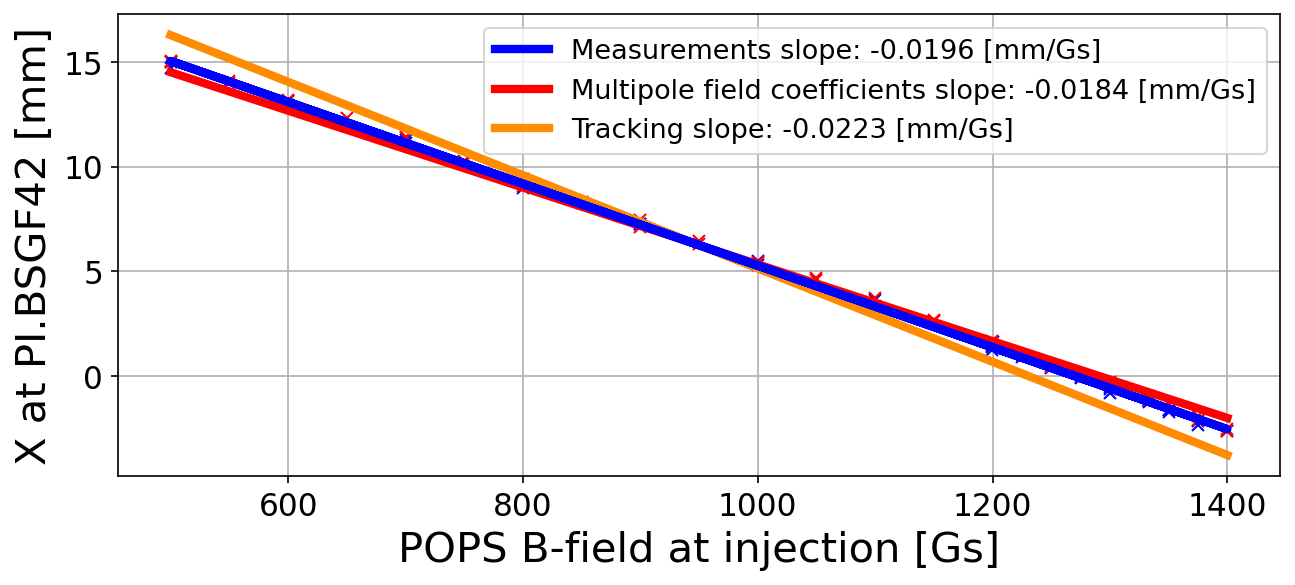
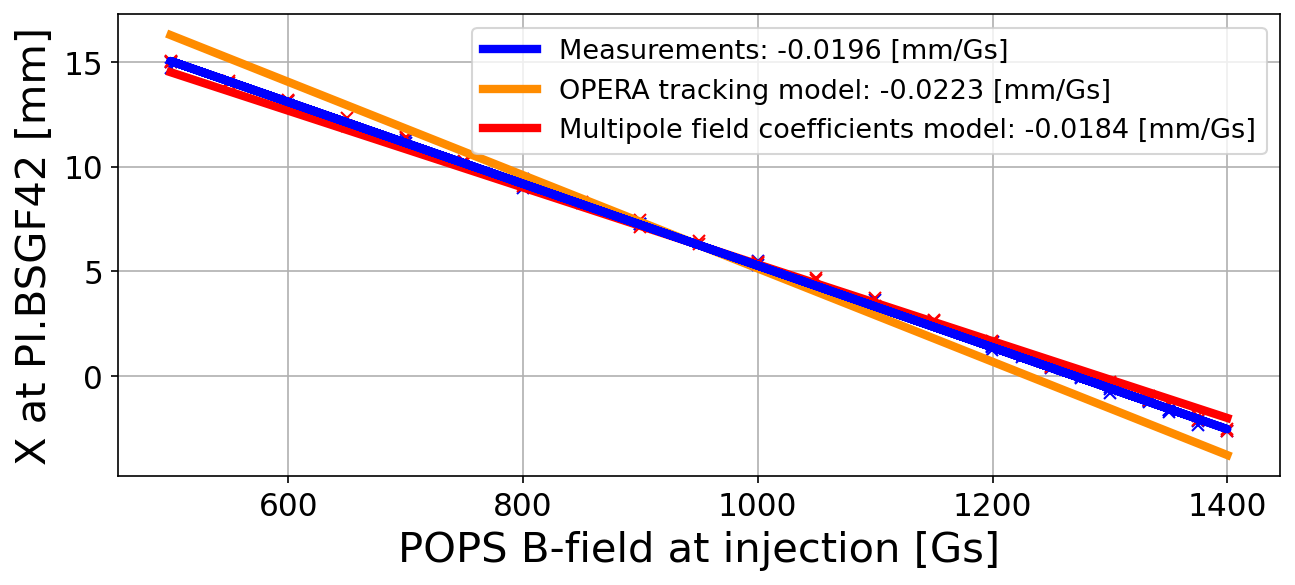
Corrected figures formating

Changed region(s): [[0.3707, 0.0615, 0.9884, 0.2462]]

diff --git a/JACoW_LaTeX_A4.tex b/JACoW_LaTeX_A4.tex
@@ -69,28 +69,28 @@ As the beam is injected and extracted from the CERN Proton Synchrotron (PS), it 
 
 
 \section{Introduction}
-As protons and ions beams are injected and extracted in the PS ring, they travel through non-linear stray fields produced by the PS MUs. In these regions, an accurate optic model is imperative for the preservation of transverse emittance. Scaling of the model is required as the injection takes place at 1 GeV/c, the slow extraction to the East Area at 24 GeV/c, and the extraction to the Super Proton Synchrotron (SPS) at 26 GeV/c. Limitation of earlier models based on measurements were that they were produced at a fixed energy. Versatility is also considered as the beam travels through stray fields with different angles, different magnet types, and non-constant number of MUs. Previous models would only consider a single track to produce the relevant optical parameters from the measurements. The model would be useful to describe slow extracted beams for Charm High-energy Ions for Micro Electronics Reliability Assurance (CHIMERA), which aims to use very high-energy (VHE) heavy-ion beams to study the effect of single event effects (SEE) on electric, electronic, and electromechanical (EEE) devices, both for research and industry users. A new technique for modeling the stray field that relies solely on simulations is presented, considering the proton injection at 2 GeV/c and the extraction a 24 GeV/c to the East Area.
+As protons and ions beams are injected and extracted in the PS ring, they travel through non-linear stray fields produced by the PS MUs. In these regions, an accurate optic model is imperative for the preservation of transverse emittance. Scaling of the model with energy is required as the injection takes place at 1 GeV/c, and extraction to the East Area and to the Super Proton Sychrotron (SPS) are at 24 GeV/c and 26 GeV/c respectively. Limitation of earlier models based on measurements were that they were produced at a single energy. Versatility is also considered as the beam travels through stray fields with different angles, different magnet types, and a non-constant number of MUs. Previous models would only consider a single track to produce the relevant optical parameters from the measurements. The model would be useful to describe slow extracted beams for Charm High-energy Ions for Micro Electronics Reliability Assurance (CHIMERA), which aims to use very high-energy (VHE) heavy-ion beams to study the effect of single event effects (SEE) on electric, electronic, and electromechanical (EEE) devices, both for research and industry users. A new technique for modeling the stray field that relies solely on simulations is presented, considering the proton injection at 2 GeV/c and the extraction a 24 GeV/c to the East Area.
 
 \section{Field maps}
-\subsection{PS main units}
+\subsection{PS Main Units}
 The CERN PS uses the strong focusing mechanism for beam convergence. The PS is composed of 100 combined function main unit magnets that produce dipolar and quadrupolar fields simultaneously. Each magnet is divided into two half-units with gradients of opposite polarity. Half-units are composed of five blocks of either closed blocks that are focusing (F), see Fig.\ref{fig:focusing} or open blocks that are defocusing (D), see Fig.\ref{fig:defocusing}.
 
 \begin{figure}[!htb]
   \centering
   \begin{minipage}[b]{0.45\columnwidth}
     \includegraphics*[width=\textwidth]{focusing}
-    \caption{Closed Focusing yoke}
+    \caption{Closed Focusing yoke.}
     \label{fig:focusing}
   \end{minipage}
   \hfill
   \begin{minipage}[b]{0.45\columnwidth}
     \includegraphics*[width=\textwidth]{defocusing}
-    \caption{Open Defocusing yoke}
+    \caption{Open Defocusing yoke.}
     \label{fig:defocusing}
   \end{minipage}
 \end{figure}
 
-There are four types of magnets: R, S, T, and U, depending on the arrangement of the half-units (FD or DF) and whether the main coil is on the inside or outside of the ring \cite{steerenberg_fifty_2011}. Additional coils called pole face winding (PFW) and figure-of-eight loop (F8L) are wrapped around the yokes to correct for chromaticity and tune. Although the combined function magnet works well when the beam is in the central orbit, every injection/extraction of the beam travels through the MUs, which causes large stray-field effects. The PS wasn't built with straight sections long enough for injection/extraction at high energy and the deflection angles of the septas are small which forces the ejected beam to travel close to the central orbit and through the stray fields of the MUs. \cite{risselada_beam_nodate}
+There are four types of magnets: R, S, T, and U, depending on the arrangement of the half-units (FD or DF) and whether the main coil is on the inside or outside of the ring \cite{steerenberg_fifty_2011}. Additional coils called pole face winding (PFW) and figure-of-eight loop (F8L) are wrapped around the yokes to correct for chromaticity and tune. Although the combined function magnet works well when the beam is in the central orbit, every injection/extraction of the beam travels through the MUs, which causes large stray-field effects. The PS wasn't built with straight sections long enough for injection/extraction at high energy and the deflection angles of the septas are small which forces the ejected beam to travel close to the central orbit and through the stray fields of the MUs \cite{risselada_beam_nodate}.
 
 
 \subsection{The OPERA model}
@@ -114,7 +114,7 @@ An example of a field map (vector field of Bx,By,Bz in x,y,z space) produced by 
    \centering
    %trim={<left> <lower> <right> <upper>}
    \includegraphics*[width=1.0\columnwidth, trim={0 2.9cm 0 4.3cm},clip]{dipole_field.png}
-   \caption{Dipole field map of a U-type magnet centered in the vertical plane at 24 GeV}
+   \caption{Dipole field map of a U-type magnet centered in the vertical plane at 24 GeV.}
    \label{fig:dipole_field}
 \end{figure}
 
@@ -124,12 +124,12 @@ $$ \boldsymbol{G}(x_{j},z) = \frac{\Delta\boldsymbol{B}}{\Delta x} = \frac{\bold
 where,
 $$ x_{j} = \frac{x_{i+1} + x_{i}}{{2}} $$
  
-The gradient is constant and alternating in the central orbit region but reverses signs at the periphery and increases in magnitude in a nonlinear way; see Fig.\ref{fig:gradient_field}. Similar results have been previously made using magnetic measurements of the MU fields \cite{manglunki_beam_1997}. Earlier models of the stray field for extraction 16 at 26 GeV/c proved to be adequate in the description of operational beams. However, the OPERA model adds the possibility to quickly generate field maps at different energies, different PFW, different F8L settings and for different magnet types. Field maps produced with the OPERA model also have virtually infinite lengths, whereas physical measurements are limited by the geometry of the magnet and the measuring instrument (-0.07 m $\leq$ x $\leq$ 0.31 and -2.55 m $\leq$ z $\leq$ 2.73), \cite{manglunki_beam_1997}.
+The gradient is constant and alternating in the central orbit region, but reverses signs at the periphery and increases in magnitude in a nonlinear way; see Fig.\ref{fig:gradient_field}. Similar results have previously been made using magnetic measurements of the MU fields \cite{manglunki_beam_1997}. Earlier models of the stray field for extraction 16 at 26 GeV/c proved to be adequate in the description of operational beams. However, the OPERA model adds the possibility to quickly generate field maps at different energies, different PFW, different F8L settings and for different magnet types. Field maps produced with the OPERA model also have virtually infinite lengths, whereas physical measurements are limited by the geometry of the magnet and the measuring instrument (-0.07 $\leq$ x $\leq$ 0.31 m and -2.55 $\leq$ z $\leq$ 2.73 m), \cite{manglunki_beam_1997}.
 
 \begin{figure}[!htb]
    \centering
    \includegraphics*[width=1.0\columnwidth, trim={0 0 0 0cm},clip]{Main_field_B_G.png}
-   \caption{PS main unit U-type | Main field B, G | y=0, Gradient field of a U-type magnet centered in the vertical plane in both half-units at 24 GeV}
+   \caption{Dipole and gradient component of a  PS U-type MU centered in the vertical plane in both half-units at 24 GeV. Outside of the central orbit the gradient is non-linear and at it's peak as an amplitude almost three times higher.}
    \label{fig:gradient_field}
 \end{figure}
 
@@ -140,7 +140,7 @@ Particle tracking through field maps is done using the Boris algorithm that trac
 Fields maps have been produced for each magnet type at three different energies: injection at 2 GeV/c with 533 A, slow extraction to the east area at 24 GeV/c with 4642 A, and extraction to the SPS at 26.4 GeV/c with 5386 A. In the following, the injection from the BTP transfer line to the PS and the extraction from the PS to the East Area have been studied.
 
 \subsection{Injection BTP}
-As the beam is injected via the BTP transfer line to the PS ring, it passes through the stray fields of the PR.BHT41 T-type MU magnet. The beam traverses mostly through the defocusing half part and feels a non-linear increase in the gradient up to the nominal value in the central orbit. Once through the MU 41, the beam is kicked by the PI.SMH42 septum magnet to capture the reference orbit. Beam position can then be measured using the downstream Secondary Emission Grid (SEM Grid) PI.BSG42. Single particle tracking is done by centering the initial beam in the middle of the injection pipe using the GEODE reference points see Fig. \ref{fig:injection_btp}.
+As the beam is injected via the BTP transfer line to the PS ring, it passes through the stray fields of the PR.BHT41 T-type MU magnet. The beam traverses mostly through the defocusing half part and feels a non-linear increase in the gradient up to the nominal value in the central orbit. Once through the MU 41, the beam is kicked by the PI.SMH42 septum magnet to capture the reference orbit. The beam position can then be measured using the downstream Secondary Emission Grid (SEM Grid) PI.BSG42. Single particle tracking is done by centering the initial beam in the middle of the injection pipe using the GEODE reference points see Fig. \ref{fig:injection_btp}.
 
 \begin{figure}[!htb]
    \centering
@@ -149,39 +149,35 @@ As the beam is injected via the BTP transfer line to the PS ring, it passes thro
    \label{fig:injection_btp}
 \end{figure}
 
-Measurements have been done by scaling the current in all main units using the Power system for PS main magnets (POPS), for our purpose we only consider MU41 as it's the only magnet the beam passes through. As expected, an increasing B field shows a decrease in transverse position of the beam as it is bent closer to the inside of the ring on the SEM-grid. The 2 GeV/c T-type field map is scaled by the same factor as the current, and a single particle is tracked through the field map. The position and angle at the end of the exit of the main unit is saved and inserted in the MAD-X PS lattice up to the SEM-Grid location. For comparison, we look at the current implementation of the stray field at injection that consists of a collection of multipoles that were created using past measurements. These are scaled in the same way. Dipole and quadrupole component along the injection track for the multipole model and the tracking model give similar results. Transverse position as a function of B field at injection matches closely measurements altough tracking performs slightly worse than the multipole model see \ref{fig:injection_btp_transverse_position}. As expect, no deviation is seen in the vertical plane. This can either be because of the mu-metal (high permeability) shielding wrapped around the injection vacuum pipe that isn't accounted for in the field map, the fact that the field map is straight instead of being bent and/or a different initial position angle of the tracked particle.
+Measurements have been done by scaling the current in all main units using the Power system for PS main magnets (POPS); for our purpose, we only consider MU41 as it is the only magnet the beam passes through. As expected, an increasing B field shows a decrease in transverse position of the beam as it is bent closer to the inside of the ring on the SEM-grid. The 2 GeV/c T-type field map is scaled by the same factor as the current, and a single particle is tracked through the field map. The position and angle at the end of the exit of the main unit is saved and inserted in the MAD-X PS lattice up to the SEM-Grid location. For comparison, we look at the current implementation of the stray field at injection that consists of a collection of multipoles that were created using past measurements. These are scaled in the same way. Dipole and quadrupole component along the injection track for the multipole model and the tracking model give similar results. Transverse position as a function of the B field at injection matches closely the measurements, though the tracking performs slightly worse than the multipole model, see Fig. \ref{fig:injection_btp_transverse_position}. This can either be because of the mu-metal (high permeability) shielding wrapped around the injection vacuum pipe that isn't accounted for in the field map, the fact that the field map is straight instead of being bent and/or a different initial position and angle of the tracked particle. As expected, no deviation is observed in the vertical plane.
 
 \begin{figure}[!htb]
    \centering
    \includegraphics*[width=1.0\columnwidth]{transverse_position_vs_POPS}
-   \caption{BT3 BTP PS, Kick response as a function of POPS measurement compared with the multipole field coefficient model and the OPERA tracking model}
+   \caption{Measurements of the BT3 BTP PS kick response as a function of POPS compared with the OPERA tracking model and the multipole field coefficient model.}
    \label{fig:injection_btp_transverse_position}
 \end{figure}
 
-The current model of the stray field composed of 235 multipoles with values of the dipole field and multipoles K1, K2 and K3 is compared with the components found with tracking. Dipole component is saved along the track and quadrupole component is computed using two tracks with a slight transverse offset.
-
-
-
-Both models give similar results.
+In addition, the current model of the stray field composed of 235 multipoles with multipoles K0, K1, K2, and K3 components is compared with the components found with tracking. The dipole component is saved along the track, and the quadrupole component is computed using two adjacent tracks with a slight transverse offset at the intial starting point. The OPERA tracking model gives components close to the previous model. The dipole integral of the OPERA model is $8.36\cdot10^{-3}$ Tm, and the multipole field coefficient (MFC) model gives $8.86\cdot10^{-3}$ Tm, which is a difference of 5.63\% compared to the MFC model. The integral of the quadrupole component of the OPERA model is $-6.68\cdot10^{-2}$ T and the MFC is $-7.43\cdot10^{-2}$ T, a 10.03\% difference compared to the MFC model.
 
 
 \subsection{Extraction to the East Area}
-The extraction to the east area passes through two main units, MU62 and MU63, with a shallower angle than during injection. The beam position and angle upstream of a MAD-X simulation are saved and used as a starting position to track a single particle in MU62. Tracking through MU62 it is observed that the beam feels the effect of both half-units. The stray field effect of the second half-unit is of particular importance as the beam passes through the crest of the gradient and experiences a gradient with reverse sign with three times the amplitude. This has the effect that instead of feeling an alternating gradient, the extracted beam feels three defocusing effects in a row (counting MU61). This succession in defocusing gradient increases the horizontal beam size at the exit of MU62, see Fig. \ref{fig:particle_distribution}. The strong Q74 quadrupole located at the exit of the main unit helps in converging the beam.
+The extraction to the East Area is affected by the stray fields of two main units, MU62 and MU63, a consequence of the beam having a higher energy, leaving at a shallower angle than at injection. The beam position and angle upstream of a MAD-X simulation are saved and used as a starting position to track a single particle in MU62. The track follows the extraction beam pipe through MU62 and experiences the effect of both half-units. The stray-field effect of the second half-unit is of particular importance, as the beam climbs the gradient hill, it experiences a non-linear gradient with reverse sign. This leads to a succession in defocusing gradients instead of having an alternating gradient that converges the beam. As a result, an increase in the horizontal beam size is expected at the exit of MU62. A distribution of particles created using MAD-X parameters is tracked through MU62 which shows the defocusing effect, see Fig. \ref{fig:particle_distribution}. The strong Q74 quadrupole located at the exit of the main unit helps cancel this adverse effect.
 
 \begin{figure}[!htb]
    \centering
    \includegraphics*[width=1.0\columnwidth]{particle_distribution.png}
-   \caption{Particle distribution entering the main unit 62 (red) and exiting the main unit (blue) following the extraction trajectory.}
+   \caption{Particle distribution entering the main unit 62 (red) and exiting the main unit (blue) following the extraction trajectory (no momentum spread in the distribution).}
    \label{fig:particle_distribution}
 \end{figure}
 
 \subsection{Magnetic shims}
 
-Magnetic shims are installed at ejection 16 and 63 to homogenize the field by shielding the ejected beam from a non linear fringe field \cite{zickler_influence_nodate}. In 16, the shims have different radial position for each of the five different shims whereas in 63, the vacuum pipe is covered with a constant rectangular shim. No shims are installed in Section 62, where the most important stray field effect is expected. Field map produce with the OPERA model do not include the effect of shims and thus only give a partial description of the actual fields. Adding the shims in the OPERA model is in consideration but requires considerable rework as the model takes advantage of a straight geometry whereas the extraction pipe and shims are at an angle with respect to the main units.
+To counteract stray fields, magnetic shims (low carbon steel shielding) are installed at ejections 16 and 63 to homogenize the field by shielding the ejected beam from the non-linear fringe field \cite{zickler_influence_nodate}. In 16, the shims have different radial position for each of the five different shims whereas in 63, the vacuum pipe is covered with a constant rectangular shim. No shims are installed in Section 62, where the most important stray field effect is expected. Field map produce with the OPERA model do not include the effect of shims and thus only give a partial description of the actual fields. Adding the shims in the OPERA model is considered but requires considerable rework, as the model takes advantage of a straight geometry, whereas the extraction pipe and shims are at an angle with respect to the main units which would increase the computational time.
 
 
 \section{CONCLUSION}
-Measurement at injection allowed us to gain confidence in using the field maps and tracking routine to characterize the operational beam. Next steps are to use the transfer maps or multipoles and check if the initial parameters in the East Area are the same as tracked through the field map.
+Measurement at injection allowed us to gain confidence in using the OPERA model in tracking routine to characterize the operational beam and led to the same conclusions as previously made 20 years ago. Next steps are to use the OPERA model to implement transfer maps or multipoles in MADX and check if the initial parameters in the East Area measured empirically are similar to the ones found with tracking through the field maps.
 
 % REFERENCES
 \printbibliography
